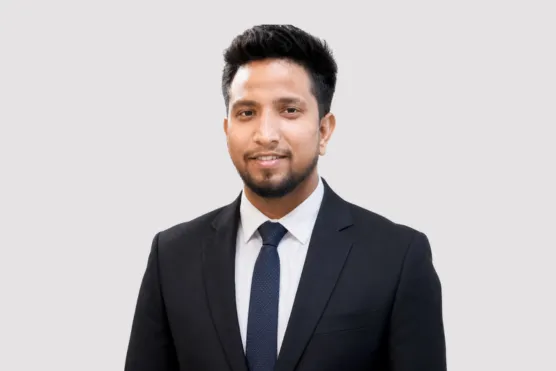
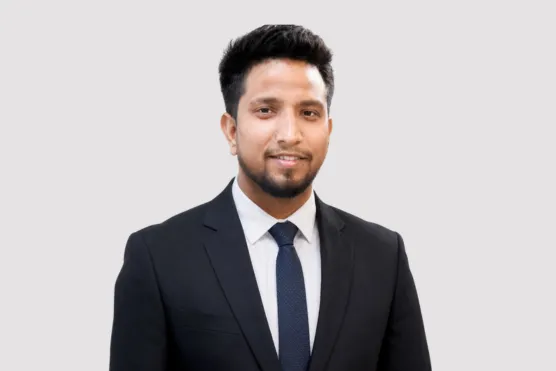
about page responsive added

Changed region(s): [[0.1835, 0.0593, 0.8255, 1.0]]

diff --git a/assets/css/style.css b/assets/css/style.css
@@ -15419,7 +15419,7 @@ ul {
 @media (max-width: 1440px) {
   .hero-style14 {
     margin: 0 27px;
-    padding-top: 150px;
+    padding-top: 197px;
   }
 }
 @media (max-width: 1201px) {
@@ -15483,20 +15483,27 @@ ul {
 }
 
 .gradient-title14 {
-  font-size: 85px;
+  font-size: 80px;
   font-weight: 500;
   line-height: 100px;
   margin-bottom: 0;
   letter-spacing: -0.03em;
 }
-@media (max-width: 1581px) {
+
+
+@media (max-width: 1501px) {
   .gradient-title14 {
-    font-size: 83px;
+    font-size: 75px;
   }
 }
 @media (max-width: 1440px) {
   .gradient-title14 {
-    font-size: 83px;
+    font-size: 70px;
+  }
+}
+@media (max-width: 1366px) {
+  .gradient-title14 {
+    font-size: 65px;
   }
 }
 @media (max-width: 1201px) {
@@ -15537,6 +15544,12 @@ ul {
   top: -10px;
   margin-left: 57px;
 }
+@media (max-width: 1199px) {
+  .hero-content14 {
+    margin-left: 0px;
+  }
+}
+
 @media (max-width: 1025px) {
   .hero-content14 {
     margin: 30px 0 0;
@@ -22956,6 +22969,11 @@ ul {
     margin-bottom: 128px;
   }
 }
+@media (max-width: 767px) {
+  .ser-card20_card1 img {
+    margin-bottom: 42px;
+  }
+}
 @media (max-width: 577px) {
   .ser-card20_card1 img {
     margin-bottom: 79px;
@@ -23026,17 +23044,24 @@ ul {
     font-size: 28px;
   }
 }
+@media (max-width: 1440px) {
+  .ser-card20_card3 {
+    height: 254px;
+  }
+}
+
+@media (max-width: 768px) {
+  .ser-card20_card3 {
+    height: 170px;
+  }
+}
 
 @media (max-width: 577px) {
   .ser-card20_card3 {
     margin-top: 22px;
   }
 }
-@media (max-width: 1440px) {
-  .ser-card20_card3 {
-    height: 254px;
-  }
-}
+
 .ser-card20_card3 img {
   height: 100%;
   object-fit: cover;
@@ -23112,6 +23137,15 @@ ul {
   color: var(--color-content-white);
 }
 
+.ser-card20_card4 p {
+  font-size: 16px;
+  line-height: 30px;
+  font-weight: 600;
+  margin-bottom: 0;
+  color: #bdbdbd;
+  /* max-width: 300px; */
+}
+
 @media (max-width: 1440px) {
   .ser-card20_card4 .title {
     max-width: 266px;
@@ -23143,6 +23177,16 @@ ul {
 @media (max-width: 769px) {
   .ser-card20_card5 {
     height: 518px;
+  }
+}
+@media (max-width: 390px) {
+  .ser-card20_card5 {
+    display: none;
+  }
+}
+@media (max-width: 767px) {
+  .ser-card20_card5 {
+    display: none;
   }
 }
 .ser-card20_card5 img {
@@ -28267,11 +28311,12 @@ ul {
     max-width: 392px;
   }
 }
+*/
 @media (max-width: 480px) {
   .about-us-sec9 .sec-title {
     margin-bottom: 20px;
   }
-} */
+} 
 
 .anim-img2 {
   position: absolute;
@@ -39848,7 +39893,7 @@ blockquote {
     max-width: 156px;
   }
 }
-@media (max-width: 577px) {
+@media (max-width: 768px) {
   .price-heade span {
     max-width: unset;
   }

diff --git a/navbar.php b/navbar.php
@@ -162,148 +162,6 @@
         <!-- Overlay for Mobile Menu -->
         <div class="overlay2"></div>
 
-        <!-- sticky header -->
-        <header class="sticky-active">
-            <div class="header-menu-area">
-                <div class="row gx-20 align-items-center justify-content-between">
-                    <div class="col-auto">
-                        <div class="header-logo">
-                            <a href="javascript:void(0)" class="menu-toggle"></a>
-                            <a href='index1.html'>
-                                <img src="assets/images/new/logo-black.png" class="wi" alt="logo">
-                            </a>
-                        </div>
-                    </div>
-                    <div class="col-auto">
-                        <nav class="main-menu menu-style1 v4">
-                            <ul>
-                                <li>
-                                    <a class='active' href='index.html'>
-                                        <span class="menu-item">Home</span>
-                                        <span class="menu-item2">Home</span>
-                                    </a>
-                                    <ul class="mega-sub-menu">
-                                        <li class="mega-menu-column">
-                                            <ul>
-                                                <li><a href='index1.html'>Modern Technology</a></li>
-                                                <li><a href='index2.html'>Neural Networks</a></li>
-                                                <li><a href='index3.html'>AI Agency</a></li>
-                                                <li><a href='index4.html'>Chatbot</a></li>
-                                                <li><a href='index5.html'>Startup</a></li>
-                                                <li><a href='index6.html'>AI Consulting</a></li>
-                                                <li><a href='index7.html'>Futurism</a></li>
-                                                <li><a href='index8.html'>Hi-Tech</a></li>
-                                                <li><a href='index9.html'>Voiceover</a></li>
-                                            </ul>
-                                            <ul>
-                                                <li><a href='index10.html'>Science</a></li>
-                                                <li><a href='index11.html'>Creative Bureau</a></li>
-                                                <li><a href='index12.html'>Video Voiceover</a></li>
-                                                <li><a href='index13.html'>IT Services</a></li>
-                                                <li><a href='index14.html'>AI Devices</a></li>
-                                                <li><a href='index15.html'>AI Solutions</a></li>
-                                                <li><a href='index16.html'>Image Generator</a></li>
-                                                <li><a href='index17.html'>Content Generator</a></li>
-                                                <li><a href='index.html'>Intro</a></li>
-                                            </ul>
-                                        </li>
-                                        <li class="mega-menu-column">
-                                            <a class='darkModeTriggerImg' href='index1.html'><img src="assets/images/event/dark-version.png" alt="AI Agency & Technology HTML Template"></a>
-                                            <a class='darkModeTriggerImg2' href='index1.html'><img src="assets/images/event/light-version.png" alt="AI Agency & Technology HTML Template"></a>
-                                        </li>
-                                    </ul>
-                                </li>
-                                <li>
-                                    <a href="#">
-                                        <span class="menu-item">Pages</span>
-                                        <span class="menu-item2">Pages</span>
-                                    </a>
-                                    <ul class="sub-menu">
-                                        <li><a href='about-us.html'>About us</a></li>
-                                        <li>
-                                            <a href='team.html'>Team</a>
-                                            <ul class="sub-menu v1">
-                                                <li><a href='team.html'>Creative team</a></li>
-                                                <li><a href='team-single.html'>Team Single</a></li>
-                                            </ul>
-                                        </li>
-                                        <li>
-                                            <a href="#">Projects</a>
-                                            <ul class="sub-menu v2">
-                                                <li><a href='project.html'>Projects Grid</a></li>
-                                                <li><a href='project2.html'>Projects Modern</a></li>
-                                                <li><a href='project-single.html'>Project Single</a></li>
-                                            </ul>
-                                        </li>
-                                        <li><a href='gallery-grid.html'>Gallery Grid</a></li>
-                                        <li><a href='gallery-masonry.html'>Gallery Masonry</a></li>
-                                        <li><a href='pricing.html'>Pricing plans</a></li>
-                                        <li><a href='career.php'>Career</a></li>
-                                        <li><a href='faq.html'>FAQ</a></li>
-                                        <li><a href='typography.html'>Typography</a></li>
-                                        <li><a href='404.html'>404</a></li>
-                                    </ul>
-                                </li>
-                                <li>
-                                    <a href='service.html'>
-                                        <span class="menu-item">services</span>
-                                        <span class="menu-item2">services</span>
-                                    </a>
-                                    <ul class="sub-menu">
-                                        <li><a href='service.html'>Services Page</a></li>
-                                        <li><a href='service-single.html'>Service Single</a></li>
-                                    </ul>
-                                </li>
-                                <li>
-                                    <a href='shop.html'>
-                                        <span class="menu-item">Shop</span>
-                                        <span class="menu-item2">Shop</span>
-                                    </a>
-                                    <ul class="sub-menu">
-                                        <li><a href='shop.html'>Products</a></li>
-                                        <li><a href='shop-single.html'>Single Product</a></li>
-                                        <li><a href='cart.html'>Shopping cart</a></li>
-                                        <li><a href='checkout.html'>Checkout</a></li>
-                                        <li><a href='account.html'>My account</a></li>
-                                    </ul>
-                                </li>
-                                <li>
-                                    <a href='blog.html'>
-                                        <span class="menu-item">Blog</span>
-                                        <span class="menu-item2">Blog</span>
-                                    </a>
-                                    <ul class="sub-menu">
-                                        <li><a href='blog.html'>Blog Classic</a></li>
-                                        <li><a href='blog2.html'>Blog Grid</a></li>
-                                        <li><a href='blog-single.html'>Blog Single</a></li>
-                                    </ul>
-                                </li>
-                                <li>
-                                    <a href='contact.php'>
-                                        <span class="menu-item">Contacts</span>
-                                        <span class="menu-item2">Contacts</span>
-                                    </a>
-                                </li>
-                            </ul>
-                        </nav>
-                    </div>
-                    <div class="col-auto d-none d-xl-block">
-                        <div class="btn-box">
-                            <!-- <a href="#" class="popup-search" data-popup="1"><i class="fa fa-search"></i></a> -->
-                            <a class='ibt-btn ibt-btn-outline-3 ibt-btn-rounded' href='contact.php' title>
-                                <span>Enquiry Now</span>
-                            </a>
-                        </div>
-                    </div>
-                </div>
-                <button class="hamburger popup-menu" data-menu="mobileMenu">
-                    <span></span>
-                    <span></span>
-                    <span></span>
-                </button>
-            </div>
-        </header>
-        <!-- End sticky header -->
 
         <!--======== Header ========-->
         <header class="vs-header4">

diff --git a/about-us.php b/about-us.php
@@ -30,7 +30,7 @@
         <!-- service-sec20 -->
         <section class="service-sec20">
             <div class="container2">
-                <div class="row">
+                <div class="row g-4">
                     <div class="col-xl-3 col-lg-6 col-md-6">
                         <div class="ser-info20">
                             <div class="ser-card20_card1">
@@ -62,7 +62,7 @@
                             </div>
                         </div>
                     </div>
-                    <div class="col-xl-6 col-lg-12">
+                    <div class="col-xl-6 col-lg-12 ">
                         <div class="ser-card20_card5">
                             <img src="assets/images/service/ser20-5.png" alt="AI Agency & Technology HTML Template">
                             <!-- <h4 class="title">AI Oculus</h4> -->
@@ -77,18 +77,18 @@
         <section class="about-us-sec9 ibt-section-gapTop">
             <div class="container">
                 <div class="title-area row">
-                    <div class="sec-title col-9">
+                    <div class="sec-title col-12 col-lg-9">
                         <span class="sub-title">About Company</span>
                         <h2 class="title animated-heading">From Start to Success:</h2>
                         <h2 class="title animated-heading">Technofra’s Milestones in Technology</h2>
                     </div>
-                    <div class="col-3">
+                    <div class="col-12 col-lg-3">
                         <!-- 
                     <a class='mt-5 ibt-btn ibt-btn-secondary' href='index14.html' target='_blank' title>
                             <span>Download Company Profile</span>
                             <i class="fa-solid fa-file-pdf"></i>
                         </a> -->
-                        <button type="button" class="mt-5 ibt-btn ibt-btn-secondary" data-bs-toggle="modal"
+                        <button type="button" class="mt-lg-5 ibt-btn ibt-btn-secondary" data-bs-toggle="modal"
                             data-bs-target="#staticBackdrop">
                             Download Company Profile 
                             <i class="fa-solid fa-file-pdf"></i>